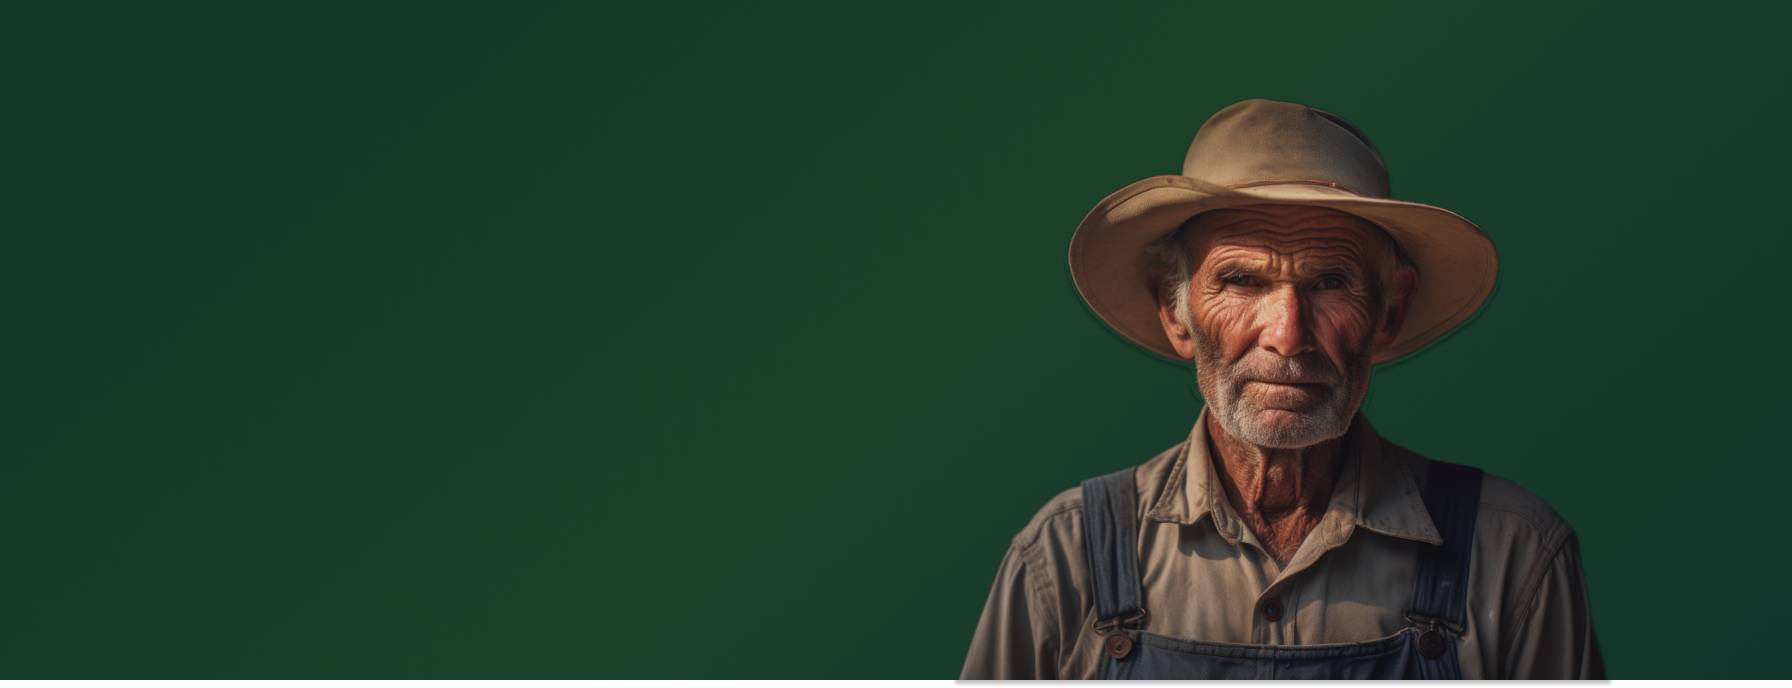
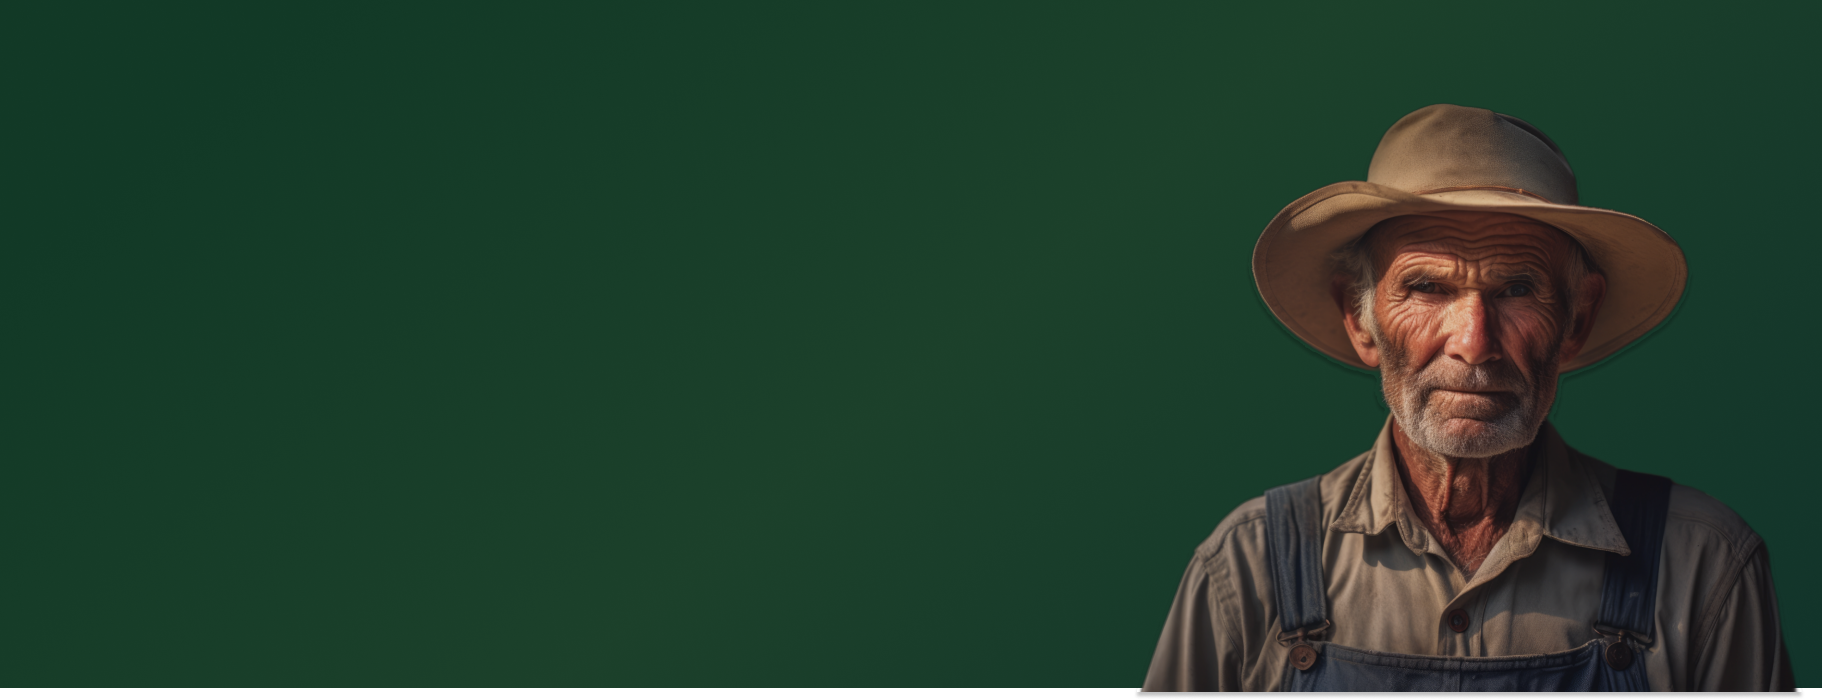
responsiveness3

Changed region(s): [[0.0, 0.1221, 1.0, 1.0]]

diff --git a/src/components/PopularServices.jsx b/src/components/PopularServices.jsx
@@ -8,18 +8,18 @@ function PopularServices() {
     { name: "Logo Design", label: "Build your brand", image: 'https://fiverr-res.cloudinary.com/q_auto,f_auto,w_550,dpr_1.0/v1/attachments/generic_asset/asset/7ead3b2056987e6fa3aad69cf897a50b-1690383161257/logo-design-2x.png' },
     { name: "Wordpress", label: "Customize your site", image: 'https://fiverr-res.cloudinary.com/q_auto,f_auto,w_550,dpr_1.0/v1/attachments/generic_asset/asset/7ead3b2056987e6fa3aad69cf897a50b-1690383161257/wordpress-2x.png' },
     { name: "Voice Over", label: "Share your message", image: 'https://fiverr-res.cloudinary.com/q_auto,f_auto,w_550,dpr_1.0/v1/attachments/generic_asset/asset/7ead3b2056987e6fa3aad69cf897a50b-1690383161253/voice-over-2x.png' },
-    { name: "Social Media", label: "Reach more customers", image: 'https://fiverr-res.cloudinary.com/q_auto,f_auto,w_550,dpr_1.0/v1/attachments/generic_asset/asset/7ead3b2056987e6fa3aad69cf897a50b-1690383161245/animated-explainer-2x.png' },
-    { name: "SEO", label: "Unlock growth online", image: 'https://fiverr-res.cloudinary.com/q_auto,f_auto,w_550,dpr_1.0/v1/attachments/generic_asset/asset/27f914ed7984fdd2d55aa1fb5e74bd6a-1690384243592/seo-2x.png' },
-    { name: "Illustration", label: "Color your dreams", image: 'https://fiverr-res.cloudinary.com/q_auto,f_auto,w_550,dpr_1.0/v1/attachments/generic_asset/asset/7ead3b2056987e6fa3aad69cf897a50b-1690383161236/illustration-2x.png' },
-    { name: "Translation", label: "Go global", image: 'https://fiverr-res.cloudinary.com/q_auto,f_auto,w_550,dpr_1.0/v1/attachments/generic_asset/asset/7ead3b2056987e6fa3aad69cf897a50b-1690383161248/data-entry-2x.png' },
+    // { name: "Social Media", label: "Reach more customers", image: 'https://fiverr-res.cloudinary.com/q_auto,f_auto,w_550,dpr_1.0/v1/attachments/generic_asset/asset/7ead3b2056987e6fa3aad69cf897a50b-1690383161245/animated-explainer-2x.png' },
+    // { name: "SEO", label: "Unlock growth online", image: 'https://fiverr-res.cloudinary.com/q_auto,f_auto,w_550,dpr_1.0/v1/attachments/generic_asset/asset/27f914ed7984fdd2d55aa1fb5e74bd6a-1690384243592/seo-2x.png' },
+    // { name: "Illustration", label: "Color your dreams", image: 'https://fiverr-res.cloudinary.com/q_auto,f_auto,w_550,dpr_1.0/v1/attachments/generic_asset/asset/7ead3b2056987e6fa3aad69cf897a50b-1690383161236/illustration-2x.png' },
+    // { name: "Translation", label: "Go global", image: 'https://fiverr-res.cloudinary.com/q_auto,f_auto,w_550,dpr_1.0/v1/attachments/generic_asset/asset/7ead3b2056987e6fa3aad69cf897a50b-1690383161248/data-entry-2x.png' },
   ];
 
   return (
-    <div className=" ml-16 sm:ml-20 my-16">
+    <div className=" ml-16 sm:ml-20 my-32">
       <h2 className="text-4xl mb-5 text-gray-400 font-bold">
         Popular Services
       </h2>
-      <ul className="flex flex-wrap gap-5">
+      <ul className="flex mt-12 flex-wrap gap-24">
         {popularServicesData.map(({ name, label, image }) => (
           <li key={name} className="relative  cursor-pointer">
             <div className="absolute z-10 text-white left-5 top-4">

diff --git a/src/components/HeroBanner.jsx b/src/components/HeroBanner.jsx
@@ -43,7 +43,7 @@ function HomeBanner() {
         />
       </div>
       
-      <div className="z-10 relative w-[400px] sm:w-[650px] flex justify-center flex-col h-full gap-5 pl-12 sm:ml-16">
+      <div className="z-10 relative w-[400px] sm:w-[650px] flex pt-24 justify-center flex-col h-full gap-5 pl-12 sm:ml-16">
         <h1 className="text-white sm:text-5xl text-5xl leading-snug">
           Find the perfect&nbsp;
           <i>CROP</i>

diff --git a/src/components/Everything.jsx b/src/components/Everything.jsx
@@ -26,7 +26,7 @@ function Everything() {
     },
   ];
   return (
-    <div className="bg-[#f1fdf7] flex flex-wrap pt-20 justify-between px-12 sm:px-24">
+    <div className="bg-[#f1fdf7] sm:pb-24 pb-44 flex flex-wrap pt-20 justify-between px-12 sm:px-24">
       <div>
         <h2 className="text-4xl mb-5 text-[#404145] font-bold">
           The best part? Everything.

diff --git a/src/components/Services.jsx b/src/components/Services.jsx
@@ -7,7 +7,7 @@ function Services() {
 //   const router = useRouter();
 
   return (
-    <div className="sm:mx-20 mx-8  my-16 ">
+    <div className="sm:mx-20 mx-8 my-16 ">
       <h2 className="text-4xl mb-10 text-[#404145] font-bold ">
         You need it, we&apos;ve got it
       </h2>
